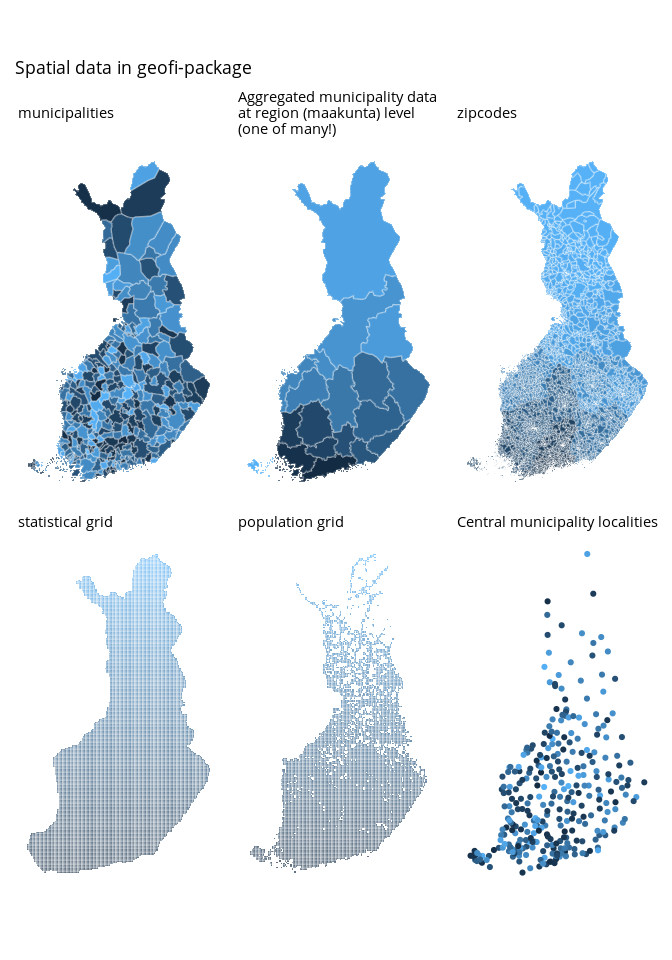
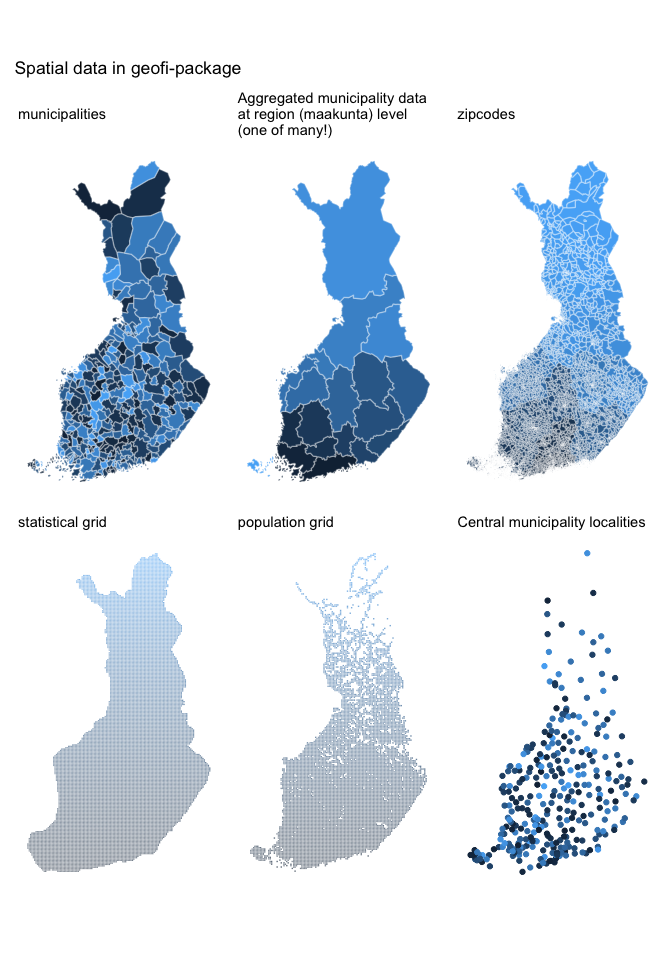
Fixed some URL redirects, graph font set to Arial

diff --git a/README.md b/README.md
@@ -2,7 +2,7 @@
 status](https://github.com/rOpenGov/geofi//workflows/R-CMD-check/badge.svg)](https://github.com/rOpenGov/geofi//actions)
 [![Project Status: Active - The project has reached a stable, usable
 state and is being actively
-developed.](http://www.repostatus.org/badges/latest/active.svg)](http://www.repostatus.org/#active)
+developed.](https://www.repostatus.org/badges/latest/active.svg)](http://www.repostatus.org/#active)
 [![codecov.io](https://codecov.io/github/rOpenGov/geofi/coverage.svg?branch=master)](https://codecov.io/github/rOpenGov/geofi?branch=master)
 [![Gitter](https://badges.gitter.im/rOpenGov/geofi.svg)](https://gitter.im/rOpenGov/geofi?utm_source=badge&utm_medium=badge&utm_campaign=pr-badge)
 [![Watch on
@@ -50,7 +50,7 @@ more comprehensive use cases.
     library(ggplot2)
     library(dplyr)
     theme_set(
-      theme_minimal(base_family = "Open Sans") +
+      theme_minimal(base_family = "Arial") +
       theme(legend.position= "none",
             axis.text = element_blank(),
             axis.title = element_blank(),
@@ -87,11 +87,11 @@ Kainu](https://github.com/muuankarski), [Joona
 Lehtomäki](https://github.com/jlehtoma), Juuso Parkkinen, Jani
 Miettinen, Pyry Kantanen, [Leo Lahti](https://github.com/antagomir)
 Retrieval and analysis of open geospatial data from Finland with the
-geofi R package. R package version 0.9.2900011. URL:
-<http://ropengov.github.io/geofi>
+geofi R package. R package version 0.9.2900012. URL:
+<https://ropengov.github.io/geofi>
 
 We are grateful to all
 [contributors](https://github.com/rOpenGov/geofi/graphs/contributors),
-including Juuso Parkkinen, Jussi Jousimo, Janne Aukia, Aaro Salosensaari
-and Jani Miettinen. This project is part of
-[rOpenGov](http://ropengov.github.io).
+including Jussi Jousimo, Janne Aukia and Aaro Salosensaari. This project
+is part of [rOpenGov](http://ropengov.org).
+<img src="http://ropengov.org/images/logo2020_black_orange.svg" height = "100px" align="right" />
